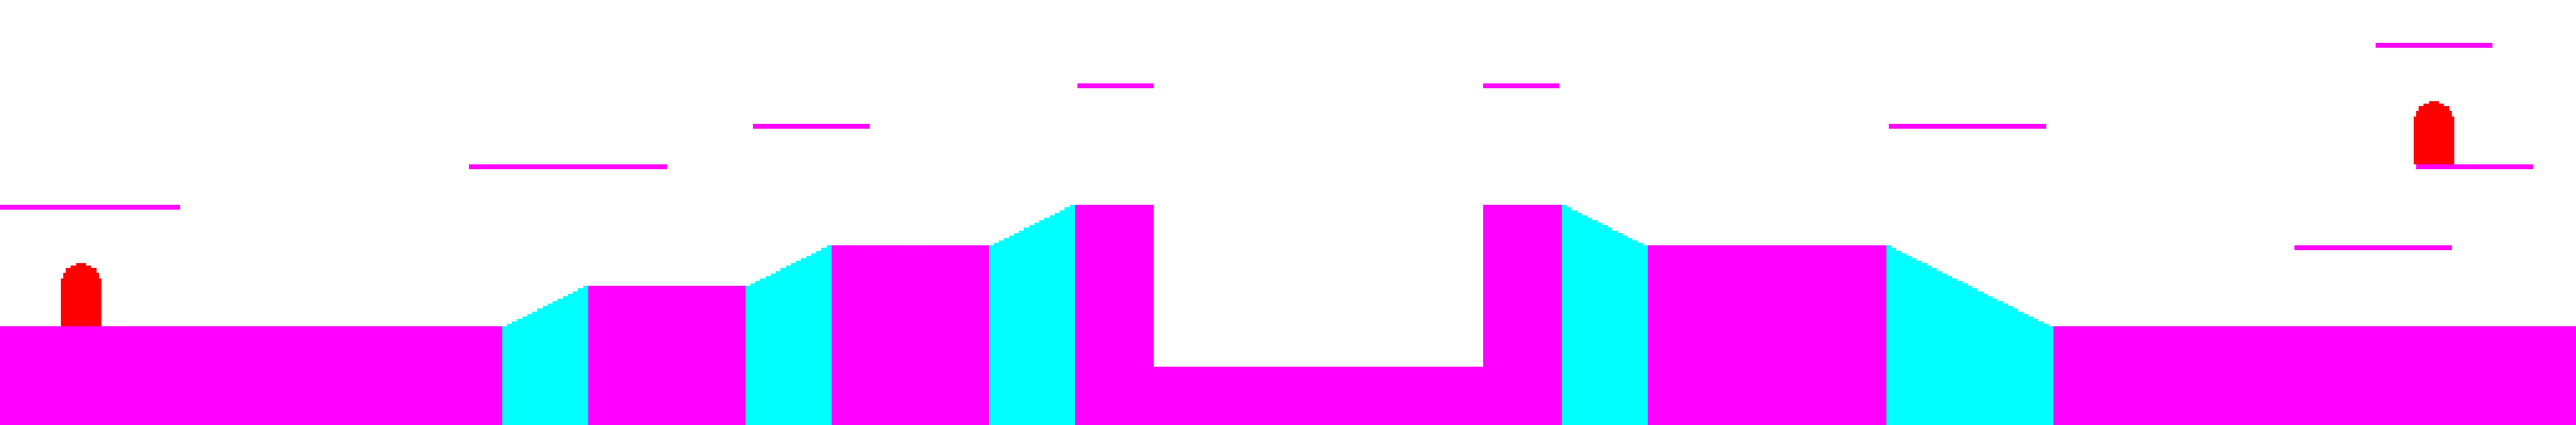
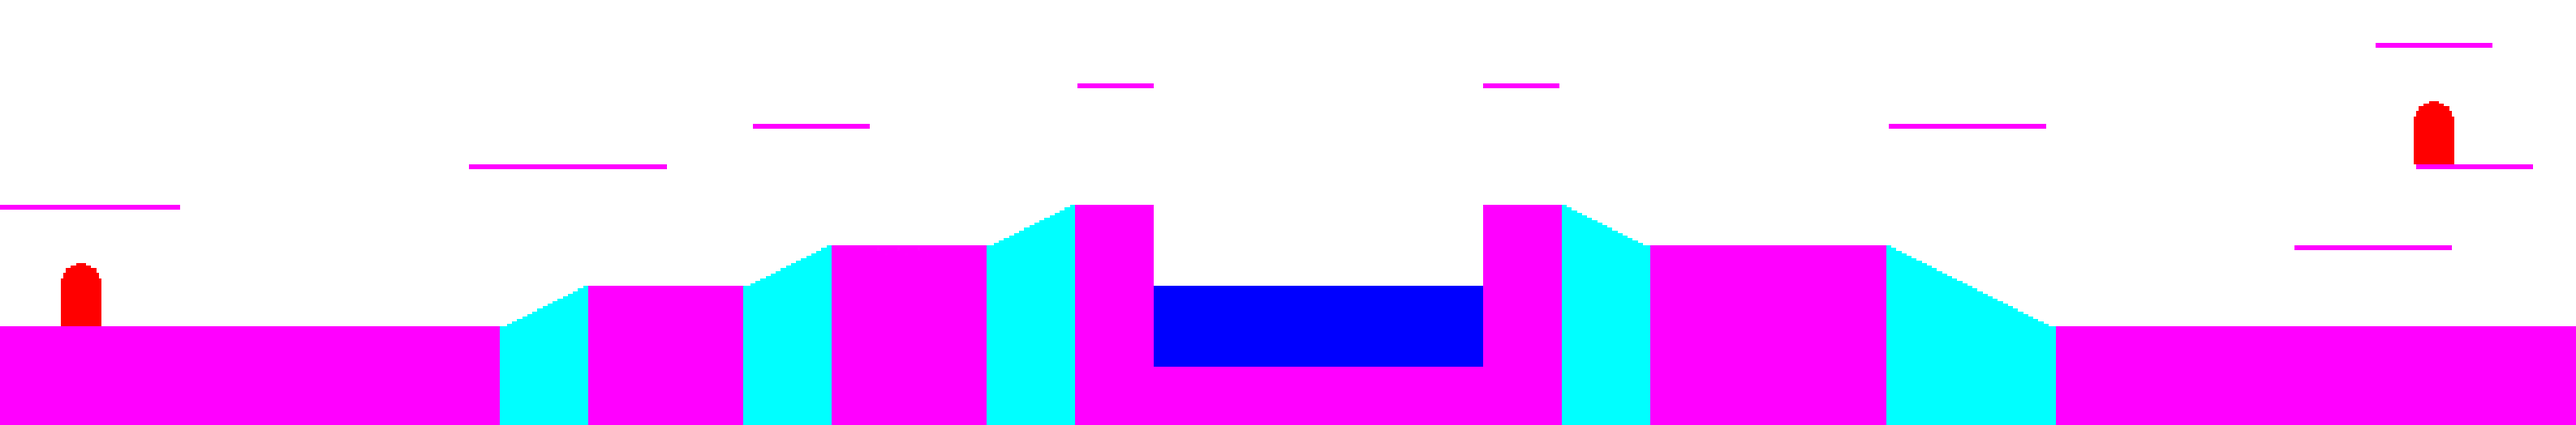
업데이트 : 몬스터 상태 FSM

Changed region(s): [[0.4365, 0.6705, 0.5924, 0.8838]]

diff --git a/Kirby's_Adventure/KirbyContents/Sparky.cpp b/Kirby's_Adventure/KirbyContents/Sparky.cpp
@@ -21,19 +21,26 @@ void ASparky::BeginPlay()
 		Renderer->SetImage("PowerEnemy1_Left.png");
 		Renderer->SetTransform({ {0,0}, {256, 256} });
 
-		Renderer->CreateAnimation("Run_Left", "PowerEnemy1_Left.png", 10, 12, 0.2f, true);
-		Renderer->CreateAnimation("Run_Right", "PowerEnemy1_Left.png", 10, 12, 0.2f, true);
+		Renderer->CreateAnimation("Jump_Left", "PowerEnemy1_Left.png", 10, 12, 0.2f, true);
+		Renderer->CreateAnimation("Jump_Right", "PowerEnemy1_Left.png", 10, 12, 0.2f, true);
+		Renderer->CreateAnimation("Attack_Left", "PowerEnemy1_Left.png", 10, 12, 0.2f, true);
+		Renderer->CreateAnimation("Attack_Right", "PowerEnemy1_Left.png", 10, 12, 0.2f, true);
 	}
 	{
 		BodyCollision = CreateCollision(KirbyCollisionOrder::Monster);
 		BodyCollision->SetColType(ECollisionType::Rect);
 		BodyCollision->SetTransform({ {0, -25}, {50, 50} });
 	}
+	{
+		DetectCollision = CreateCollision(KirbyCollisionOrder::Detect);
+		BodyCollision->SetColType(ECollisionType::Rect);
+		BodyCollision->SetTransform({ {0, -75}, {300, 150} });
+	}
 
 	SetAbility(EAbiltyType::Spark);
 	SetMoveMaxSpeed(100.0f);
 
-	StateChange(EMonsterState::Move);
+	StateChange(EMonsterState::Jump);
 }
 
 void ASparky::Tick(float _DeltaTime)
@@ -41,17 +48,45 @@ void ASparky::Tick(float _DeltaTime)
 	AMonster::Tick(_DeltaTime);
 }
 
-void ASparky::MoveStart()
+void ASparky::IdleStart()
+{
+
+}
+
+void ASparky::JumpStart()
 {
 	AMonster::MoveStart();
 
-	Renderer->ChangeAnimation(GetAnimationName("Run"));
+	Renderer->ChangeAnimation(GetAnimationName("Jump"));
 	DirCheck();
 }
 
-void ASparky::Move(float _DeltaTime)
+void ASparky::BreakfallStart()
 {
-	AMonster::Move(_DeltaTime);
+
+}
+
+void ASparky::FallStart()
+{
+
+}
+
+void ASparky::AttackStart()
+{
+	AMonster::AttackStart();
+
+	Renderer->ChangeAnimation(GetAnimationName("Attack"));
+	DirCheck();
+}
+
+void ASparky::Idle(float _DeltaTime)
+{
+
+}
+
+void ASparky::Jump(float _DeltaTime)
+{
+	AMonster::Jump(_DeltaTime);
 
 	if (AbsorbCheck() == true)
 	{
@@ -85,6 +120,21 @@ void ASparky::Move(float _DeltaTime)
 	{
 		MoveUpdate(_DeltaTime, true, true, true);
 	}
+}
+
+void ASparky::Breakfall(float _DeltaTime)
+{
+
+}
+
+void ASparky::Fall(float _DeltaTime)
+{
+
+}
+
+void ASparky::Attack(float _DeltaTime)
+{
+
 }
 
 void ASparky::DirCheck()

diff --git a/Kirby's_Adventure/KirbyContents/Monster.cpp b/Kirby's_Adventure/KirbyContents/Monster.cpp
@@ -31,8 +31,20 @@ void AMonster::StateChange(EMonsterState _State)
 	{
 		switch (_State)
 		{
+		case EMonsterState::Idle:
+			IdleStart();
+			break;
 		case EMonsterState::Move:
 			MoveStart();
+			break;
+		case EMonsterState::Jump:
+			JumpStart();
+			break;
+		case EMonsterState::Breakfall:
+			BreakfallStart();
+			break;
+		case EMonsterState::Fall:
+			FallStart();
 			break;
 		case EMonsterState::Attack:
 			AttackStart();
@@ -52,8 +64,20 @@ void AMonster::StateUpdate(float _DeltaTime)
 {
 	switch (State)
 	{
+	case EMonsterState::Idle:
+		Idle(_DeltaTime);
+		break;
 	case EMonsterState::Move:
 		Move(_DeltaTime);
+		break;
+	case EMonsterState::Jump:
+		Jump(_DeltaTime);
+		break;
+	case EMonsterState::Breakfall:
+		Breakfall(_DeltaTime);
+		break;
+	case EMonsterState::Fall:
+		Fall(_DeltaTime);
 		break;
 	case EMonsterState::Attack:
 		Attack(_DeltaTime);
@@ -168,7 +192,27 @@ void AMonster::MoveUpdate(float _DeltaTime, bool _IsGravity, bool _IsGroundUp, b
 	}
 }
 
+void AMonster::IdleStart()
+{
+
+}
+
 void AMonster::MoveStart()
+{
+
+}
+
+void AMonster::JumpStart()
+{
+
+}
+
+void AMonster::BreakfallStart()
+{
+
+}
+
+void AMonster::FallStart()
 {
 
 }
@@ -185,7 +229,27 @@ void AMonster::AbsorbStart()
 	GravityVector = FVector::Zero;
 }
 
+void AMonster::Idle(float _DeltaTime)
+{
+
+}
+
 void AMonster::Move(float _DeltaTime)
+{
+
+}
+
+void AMonster::Jump(float _DeltaTime)
+{
+
+}
+
+void AMonster::Breakfall(float _DeltaTime)
+{
+
+}
+
+void AMonster::Fall(float _DeltaTime)
 {
 
 }

diff --git a/Kirby's_Adventure/KirbyContents/Monster.h b/Kirby's_Adventure/KirbyContents/Monster.h
@@ -19,7 +19,7 @@ public:
 protected:
 	EActorDir DirState = EActorDir::Left;
 	EActorDir UpDownDirState = EActorDir::Down;
-	EMonsterState State = EMonsterState::None;
+	EMonsterState State = EMonsterState::Idle;
 	EGroundType GroundType = EGroundType::None;
 	EAbiltyType Ability = EAbiltyType::None;
 	std::string CurAnimationName = "None";
@@ -53,11 +53,19 @@ protected:
 	void AddUpDownMoveVector(const FVector& _DirDelta);
 	void MoveUpdate(float _DeltaTime, bool _IsGravity, bool _IsGroundUp, bool _IsGroundDown);
 
+	virtual void IdleStart();
 	virtual void MoveStart();
+	virtual void JumpStart();
+	virtual void BreakfallStart();
+	virtual void FallStart();
 	virtual void AttackStart();
 	void AbsorbStart();
 
+	virtual void Idle(float _DeltaTime);
 	virtual void Move(float _DeltaTime);
+	virtual void Jump(float _DeltaTime);
+	virtual void Breakfall(float _DeltaTime);
+	virtual void Fall(float _DeltaTime);
 	virtual void Attack(float _DeltaTime);
 	void Absorb(float _DeltaTime);
 

diff --git a/Kirby's_Adventure/KirbyContents/Sparky.h b/Kirby's_Adventure/KirbyContents/Sparky.h
@@ -16,9 +16,15 @@ protected:
 	void BeginPlay() override;
 	void Tick(float _DeltaTime) override;
 
-	void MoveStart() override;
+	void IdleStart() override;
+	void JumpStart() override;
+	void BreakfallStart() override;
+	void FallStart() override;
 	void AttackStart() override;
-	void Move(float _DeltaTime) override;
+	void Idle(float _DeltaTime) override;
+	void Jump(float _DeltaTime) override;
+	void Breakfall(float _DeltaTime) override;
+	void Fall(float _DeltaTime) override;
 	void Attack(float _DeltaTime) override;
 
 	void DirCheck() override;

diff --git a/Kirby's_Adventure/KirbyContents/Level111.cpp b/Kirby's_Adventure/KirbyContents/Level111.cpp
@@ -99,8 +99,8 @@ void ULevel111::Tick(float _DeltaTime)
 void ULevel111::LevelStart(ULevel* _Level)
 {
 	Map = SpawnActor<ABackGroundMap>();
-	Map->SetMapImage("Stage1-1.png");
-	Map->SetColMapImage("Stage1-1_Col.png");
+	Map->SetMapImage("Stage2-3.png");
+	Map->SetColMapImage("Stage2-3_Col.png");
 
 	Fade = SpawnActor<AFadeOut>();
 	Fade->SetActorLocation({ 400, 375 });

diff --git a/Kirby's_Adventure/KirbyContents/ContentsCore.cpp b/Kirby's_Adventure/KirbyContents/ContentsCore.cpp
@@ -22,9 +22,9 @@ void UContentsCore::BeginPlay()
 	UEngineCore::BeginPlay();
 
 	CreateLevel<UTitleLevel>("TitleLevel");
-	CreateLevel<ULevel111>("Level111");
+	CreateLevel<ULevel111>("Level113");
 
-	ChangeLevel("Level111");
+	ChangeLevel("Level113");
 }
 
 void UContentsCore::Tick(float _DeltaTime)

diff --git a/Kirby's_Adventure/KirbyContents/ContentsHelper.h b/Kirby's_Adventure/KirbyContents/ContentsHelper.h
@@ -63,8 +63,11 @@ enum class EPlayState
 
 enum class EMonsterState
 {
-	None,
+	Idle,
 	Move,
+	Jump,
+	Breakfall,
+	Fall,
 	Attack,
 	Absorb,
 };
